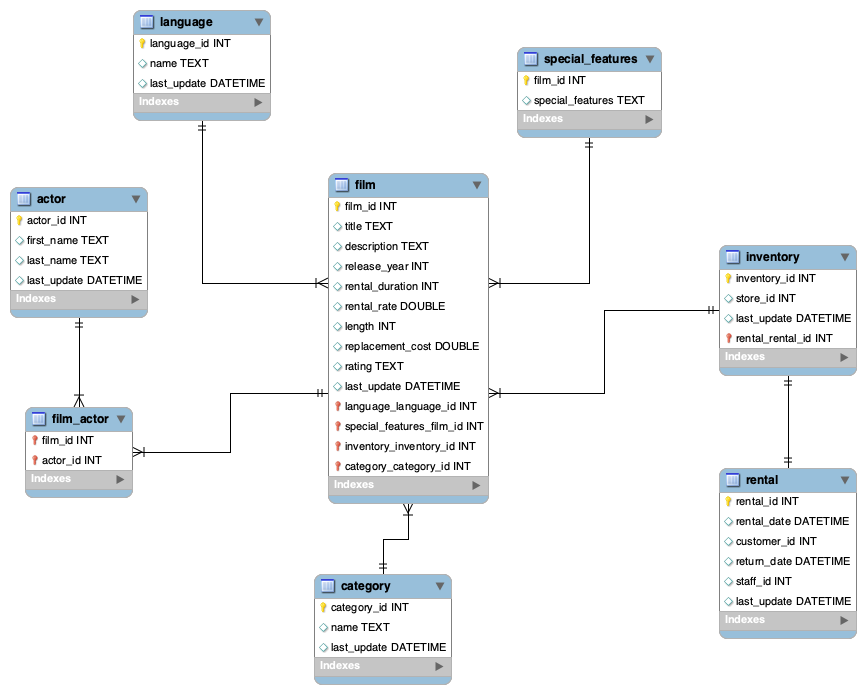
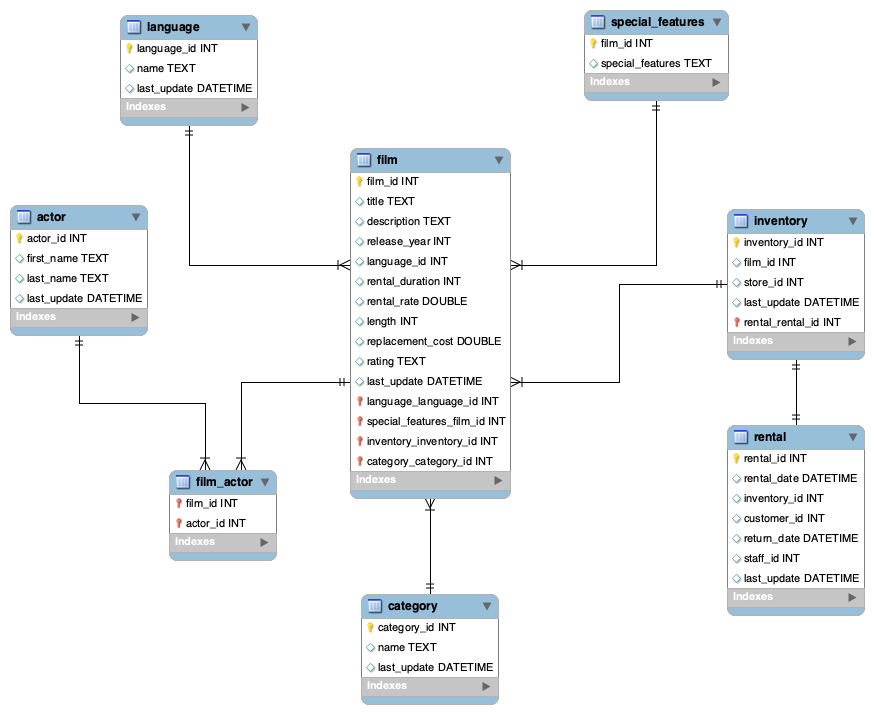
readmemd actualizado

diff --git a/README.md b/README.md
@@ -1,1 +1,26 @@
-# 3.5-mysql
+# Proyecto MySQL 🐬
+
+![logo MySQL](pictures/mysqllogo.png)
+
+
+En este proyecto cuento con varios documentos CSV que contienen datos de un antiguo videoclub 🍿
+
+El objetivo ha sido limpiar dichos datos para poder clasificarlos de manera más clara y fácil de interpretar para que su antiguo sueño pueda reconsiderar si debe volver a abrirlo o no
+
+## Proceso 🔎
+
+1. Limpiar los datos de cada CSV
+2. Exportar los datos actualizados a nuevos CSVs
+3. Creación de la base de datos en MySQL Workbench
+4. Establecimiento de las relaciones entre los datos
+
+![schema](sql/schema.png)
+
+
+## Objetivos ✅
+
+1. Calcular la duración promedio de alquiler para películas en cada idioma
+2. Calcular la tasa de alquiler promedio para películas en cada idioma
+3. Seleccionar los títulos de las películas y sus costos de reemplazo, ordenándolos en orden descendente para encontrar las películas con los costos de reemplazo más altos
+
+
